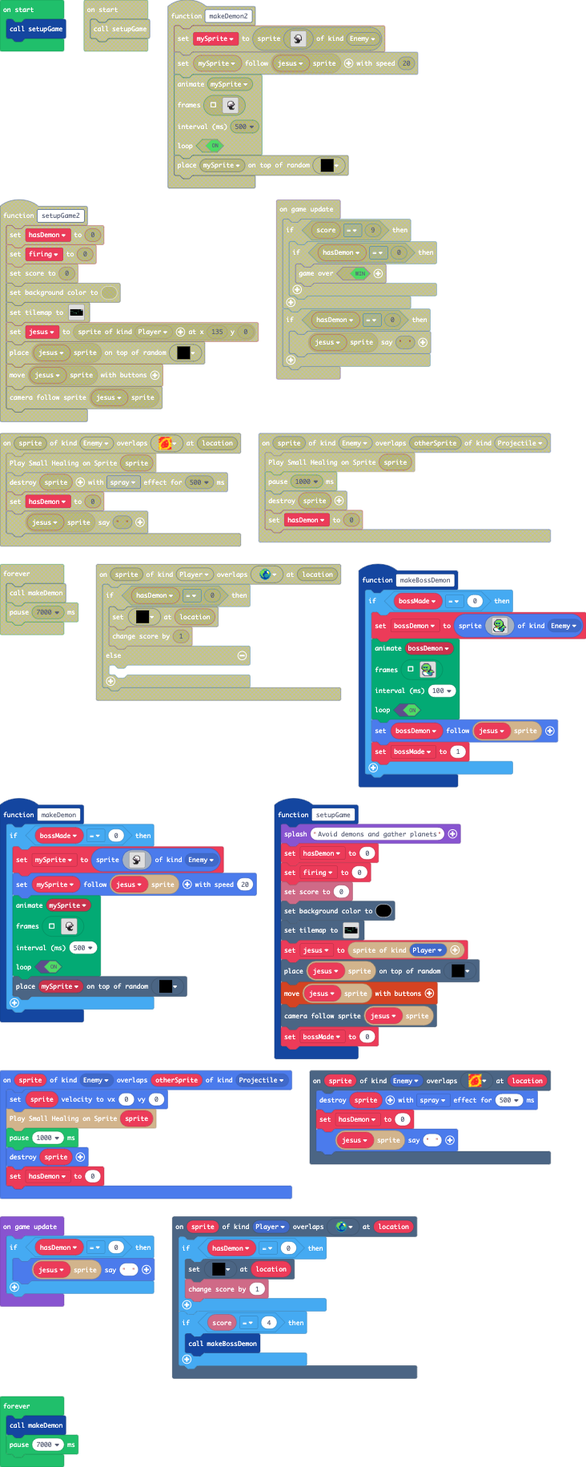
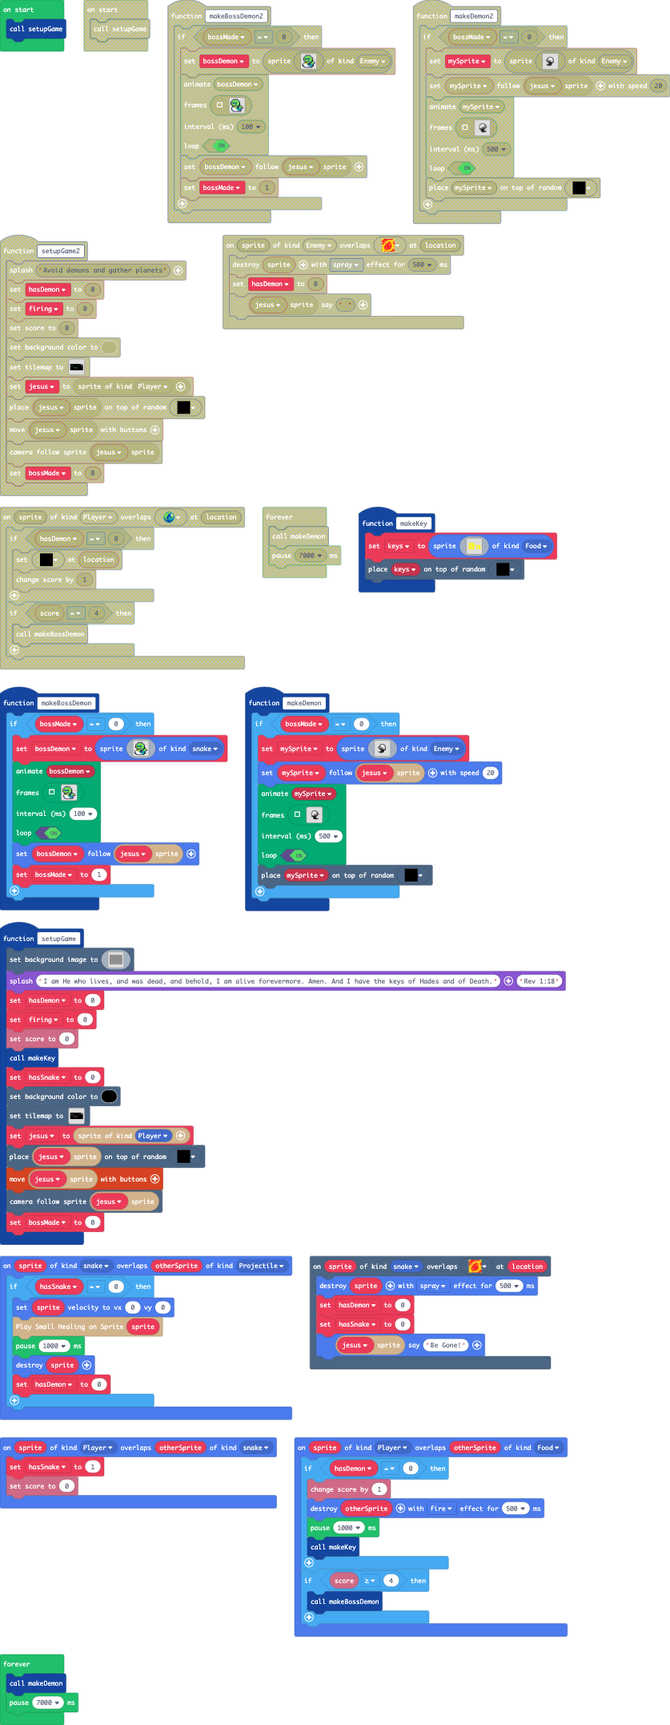
add boss demons

diff --git a/main.ts b/main.ts
@@ -1,3 +1,6 @@
+namespace SpriteKind {
+    export const snake = SpriteKind.create()
+}
 namespace myTiles {
     //% blockIdentity=images._tile
     export const tile0 = img`
@@ -18,6 +21,17 @@ namespace myTiles {
 . . . . . . . . . . . . . . . . 
 . . . . . . . . . . . . . . . . 
 `
+}
+function makeKey () {
+    keys = sprites.create(img`
+. 5 5 5 5 5 . . . . . . 
+. 5 5 5 5 5 . . . . . . 
+. 5 5 . 5 5 5 5 5 5 5 5 
+. 5 5 . 5 5 . . 5 . 5 5 
+. 5 5 5 5 5 . . 5 . 5 5 
+. 5 5 5 5 5 . . 5 . 5 5 
+`, SpriteKind.Food)
+    tiles.placeOnRandomTile(keys, sprites.builtin.forestTiles10)
 }
 function makeDemon () {
     if (bossMade == 0) {
@@ -189,7 +203,7 @@ f 1 1 1 1 1 6 6 c 6 6 6 6 f . .
 f 6 1 1 1 1 1 6 6 6 6 6 c f . . 
 . f 6 1 1 1 1 1 1 6 6 6 f . . . 
 . . c c c c c c c c c f . . . . 
-`, SpriteKind.Enemy)
+`, SpriteKind.snake)
         animation.runImageAnimation(
         bossDemon,
         [img`
@@ -323,13 +337,137 @@ controller.left.onEvent(ControllerButtonEvent.Released, function () {
     codeplant.jesus.playAnimation(codeplant.jesus.AnimationTypes.IdleLeft)
 })
 function setupGame () {
-    game.splash("Avoid demons and gather planets")
+    scene.setBackgroundImage(img`
+f f f f f f f f f f f f f f f f f f f f f f f f f f f f f f f f f f f f f f f f f f f f f f f f f f f f f f f f f f f f f f f f f f f f f f f f f f f f f f f f f f f f f f f f f f f f f f f f f f f f f f f f f f f f f f f f f f f f f f f f f f f f f f f f f f f f f f f f f f f f f f f f f f f f f f f f f f f f f f f f 
+f f f f f f f f f f f f f f f f f f f f f f f f f f f f f f f f f f f f f f f f f f f f f f f f f f f f f f f f f f f f f f f f f f f f f f f f f f f f f f f f f f f f f f f f f f f f f f f f f f f f f f f f f f f f f f f f f f f f f f f f f f f f f f f f f f f f f f f f f f f f f f f f f f f f f f f f f f f f f f f f 
+f f f f f f f f f f f f f f f f f f f f f f f f f f f f f f f f f f f f f f f f f f f f f f f f f f f f f f f f f f f f f f f f f f f f f f f f f f f f f f f f f f f f f f f f f f f f f f f f f f f f f 2 2 2 f f f f f f f f f f f f f f f f f f f f f f f f f 2 f f f f f f f f f f f f f f f f f f f f f f f f f f f f f f 
+f f f f f f f f f f f f f f f f f f f f f f f f f f f f f f f f f f f f f f f f f f f f f 2 2 2 f f f f f f f f f f f f f f f f f f f f f f f f f f f f f f f f f f f f f f f f f f f f f f f 2 2 2 2 2 2 f f f f f f f f f f f f f f f f f f f f f f f 2 2 2 2 2 2 f f f f f f f f f f f f f f f f f f f f f f f f f f f f f f 
+f f f f f f f f f f f f f f f f f f f f f f f f f f f f f f f f f f f f f f f f f f f f f f f f 2 2 2 2 f f f f f f f f f f f f f f f f f f f f f f f f f f f f f f f f f f f f f f f f 2 2 2 f f f f f f f f f f f f f f f f f 5 5 5 f f f f f f f 2 2 f f f f f f f f f f f f f f f f f f f f f f f f f f f f f f f f f f f f 
+f f f f f f f f f f f f f f f f f f f f f f f f f f f f f f f f f f f f f f f f f f f f f f f f f f f f 2 2 f f f f f f f f f f f f f f f f f f f f f f f f 5 f f f f f f f f f f f 2 2 f f f f f f f f f f f f f f f f f f f f 5 f f f f f f f 2 2 f f f f f f f f f f f f f f f f f f f f f f f f f f f f f f f f f f f f f f 
+f f f f f f f f f f f f f f f f f f f f f f f f f f f f f f f f f f f f f f f f f f f f f f f f f f f f f f 2 2 f f f f f f f f f f f f f f f f f f f f f 5 f f f f f f f f f f 2 2 f f f f f f f f f f f f f f f f f f f f f 5 f f f f f f 2 2 f f f f f f f f f f f f f f f f f f f f f f f f f f f 2 2 2 2 f f f f f f f f f 
+f f f f f f f f f f f f f f f f f f f f f f f f f f f f f f f f f f f f f f f f f f f f f f f f f f f f f f f f 2 2 f f f f f f f f f f f f f f f f f f 5 f f f f f f f f f 2 2 f f f f f f f f f f f f f f f f f f f f f f 5 f f f f f 2 2 f f f f f f f f f f f f f f f f f f f f f f f f f f 2 2 2 f f f f f f f f f f f f f 
+f f f f f f f f f f f f f f f f f f f f f f f f f f f f f f f f f f f f f f f f f f f f f f f f f f f f f f f f f f 2 f f f f f f f f f f f f f f f f 5 f f f f f f f f 2 2 f f f f f 2 2 2 2 f f f f f f f f f f f f f 5 5 f f f f 2 2 f f f f f f f f f f f f f f f f f f f f f f f f f f f f 2 f f f f f f f f f f f f f f f 
+f f f f f f f f f f f f f f f f f f f 2 2 f f f f f f f f f f f f f f f f f f f f 5 f f f f 2 2 f f f f f f f f f f f 2 f f f f f f f f f f f f f f 5 f f f f f f f 2 2 f f f f f f f f f f f 2 2 2 f f f f f f f f f f 5 f f f 2 2 f f f f f f f f f f f f f f f f f f f f f f f 5 f f f f f 2 f f f f f f f f f f f f f f f f 
+f f f f f f f f f f f f f f f f f f f f f 2 2 f f f f f f f f f f f f f f f f f f 5 f f 2 2 f f f f f f f f f f f f f f 2 2 f f f f f f f f f f f f 5 f f f f f 2 2 f f f f f f f f f f f f f f f f 2 2 f f f f f f f 5 f f f 2 f f f f f f f f f f f f f f f f f f f f f f f f 5 f f f f f 2 f f f f f f f f f f f f f f f f f 
+f f f f f f f f f f f f f f f f f f f f f f f 2 2 2 f f f f f f f f f f f f f f f 5 f f 2 f f f f f f f f f f f f f f f f f 2 f f f f f f f f f f f 5 f f f f 2 f f f f f f f f f f f f f f f f f f f f 2 2 f f f f f f f f 2 f f f f f f 2 2 f f f f f f f f f f f f f f f f f 5 f f f f f 2 f f f f f f f f f f f f f f f f f 
+f f f f f f f f f f f f f f f f f f f f f f f f 2 f 2 2 f f f f f f f f f f f f f 5 f 2 f f f f f f f f f f f f f f f f f f f 2 f f f f f f f f f 5 f f f f 2 f f f f f f f f f f f f f f f f f f f f f f f 2 f f f f f 2 2 f f f f f f f f f 2 2 2 f f f f f f f f f f f f f f 5 f f f f 2 f f f f f f f f f f f f f f f f f f 
+f f f f f f f f f f f f f f f f f f f f f f 2 2 f f f f 2 f f f f f f f f f f f 5 f f 2 f f f f f f f f f f f f f f f f f f f f 2 2 f f f f f f 5 f f f f 2 f f f f f f f f f f f f f f f f f f f f f f f f f 2 f f f 2 f f f f f f f f f f f f f f 2 2 2 f f f f f f f f f f f 5 f f f 2 f f f f f f f f f f f f f f f f f f f 
+f f f f f f f f f f f f f f f f f f f f 2 2 f f f f f f f 2 f f f f f f f f f f 5 f 2 f f f f f f f f f f f f f f f f f f f f f f f 2 f f f f f 5 f f f f 2 f f f f f f f f f f f f f f f f f f f f f f f f f f 2 2 2 f f f f f f f f f f f f f f f f f f 2 2 f f f f f f f f 5 f f f f 2 f f f f f f f f f f f f f f f f f f f 
+f f f f f f f f f f f f f f f f f f f 2 f f f f f f f f f f 2 f f f f f f f f 5 f f 2 f f f f f f f f f f f f f f f f f f f f f f f 2 f f f f 5 f f f f 2 f f f f f f f f f f f f f f f f f f f f f f f f f f f f f f f f f f f f f f f f f f f f f f f f f f 2 f f f f f f f 5 f f f f 2 f f f 2 f f f f f f f f f f f f f f f 
+f f f f f f f f f f f f f f f f f f 2 f f f f f f f f f f f f 2 f f f f f f f 5 f 2 f f f f f f f f f f f f f f f f f f f f f f f f 2 f f f 5 5 f f f 2 f f f f f f f f f f f f f f f f f f f f f f f f f f f f f f f f f f f f f f f f f f f f f f f f f f f 2 f f f f f f f 5 f f f 2 f f f f 2 f f f f f f f f f f f f f f f 
+f f f f f f f f f f f f f 5 f f f 2 f f f f f f f f f f f f f f 2 f f f f f 5 f f 2 f f f f f f f f f f f f f f f f f f f f f f f f 2 f f f 5 5 f f f 2 f f f f f f f f f f f f f f f f f f f f f f f f f f f f f f f f f f f f f f f f f f f f f f f f f f f f 2 f f f f f 5 f f f f 2 f f f f 2 f f f f f f f f f f f f f f f 
+f f f f f f f f f f f f f 5 f f f 2 f f f f f f f f f f f f f f f 2 f f f f 5 f f 2 f f f f f f f f f f f f f f f f f f f f f f f f f 2 f f f f f f 2 f f f f f f f f f f f f f f f f f f f f f f f f f f f f f f f f f f f f f f f f f f f f f f f f f f f f f 2 f f f f f f f f f 2 f f f f f 2 f f f f f f f f f f f f f f f 
+f f f f f f f f f f f f 5 f f f 2 f f f f f f f f f f f f f f f f f 2 f f f f f 2 f f f f f f f f f f f f f f f f f f f f f f f f f f 2 f f f f f 2 f f f f f f f f f f f f f f f f f f f f f f f f f f f f f f f f f f f f f f f f f f f f f f f f f f f f f f f 2 f f f f f f f f 2 f f f f f 2 f f f f f f f f f f f f f f f 
+f f f f f f f f f f f f 5 f f 2 f f f f f f f f f f f f f f f f f f f 2 f f f f 2 f f f f f f f f f f f f f f f f f f f f f f f f f f f 2 f f f 2 f f f f f f f f f f f f f f f f f f f f f f f f f f f f f f f f f f f f f f f f f f f f f f f f f f f f f f f f f 2 f f f f f f 2 f f f f f f 2 f f f f f f f f f f f f f f f 
+f f f f f f f f f f f 5 f f f 2 f f f f f f f f f f f f f f f f f f f 2 f f f f 2 f f f f f f f f f f f f f f f f f f f f f f f f f f f f 2 f f 2 f f f f f f f f f f f f f f f f f f f f f f f f f f f f f f f f f f f f f f f f f f f f f f f f f f f f f f f f f 2 f f f f f f 2 f f f f f f 2 f f f f f f f f f f f f f f f 
+f f f f f f f f f f f 5 f f 2 f f f f f f f f f f f f f f f f f f f f f 2 f f 2 f f f f f f f f f f f f f f f f f f f f f f f f f f f f f f 2 f 2 f f f f f f f f f f f f f f f f f f f f f f f f f f f f f f f f f f f f f f f f f f f f f f f f f f f f f f f f f f 2 f f f f 2 f f f f f f f 2 f f f f f f f f f 5 f f f f f 
+f 2 2 f f f f f f f 5 f f f 2 f f f f f f f f f f f f f f f f f f f f f 2 f f 2 f f f f f f f f f f f f f f f f f f f f f f f f f f f f f f f 2 2 f f f f f f f f f f f f f f f f f f f f f f f f f f f f f f f f f f f f f f f f f f f f f f f f f f f f f f f f f f f 2 f f f 2 f f f f f f f 2 f f f f f f f f 5 f f f f f f 
+f f 2 f f f f f f f 5 f f f 2 f f f f f f f f f f f f f f f f f f f f f f 2 2 f f f f f f f f f f f f f f f f f f f f f f f f f f f f f f f f 2 2 f f f f f f f f f f f f f f f f f f f f f f f f f f f f f f f f f f f f f f f f f f f f f f f f f f f f f f f f f f f f 2 f 2 f f f f f f f f 2 f f f f f f f 5 f f f f f f f 
+f f f 2 f f f f f f 5 f f f 2 f f f f f f f f f f f f f f f f f f f f f f 2 2 f f f f f f f f f f f f f f f f f f f f f f f f f f f f f f f f f 2 f f f f f f f f f f f f f f f f f f f f f f f f f f f f f f f f f f f f f f f f f f f f f f f f f f f f f f f f f f f f f 2 f f f f f f f f 2 f f f f f f f 5 f f f f f f f f 
+f f f f 2 f f f f f 5 f f f 2 f f f f f f f f f f f f f f f f f f f f f f f 2 2 f f f f f f f f f f f f f f f f f f f f f f f f f f f f f f f f f f f f f f f f f f f f f f f f f f f f f f f f f f f f f f f f f f f f f f f f f f f f f f f f f f f f f f f f f f f f f f f f f f f f f f f 2 f f f f f f f 5 f f f f f f f f 
+f f f f f 2 f f f 5 5 f f 2 f f f f f f f f f f f f f f f f f f f f f f f f f 2 f f f f f f f f f f f f f f f f f f f f f f f f f f f f f f f f f f f f f f f f f f f f f f f f f f f f f f f f f f f f f f f f f f f f f f f f f f f f f f f f f f f f f f f f f f f f f f f f f f f f f f 2 f f f f f f 5 5 f f f f f f f f f 
+f f f f f f 2 f f f f f f 2 f f f f f f f f f f f f f f f f f f f f f f f f f f f f f f f f f f f f f f f f f f f f f f f f f f f f f f f f f f f f f f f f f f f f f f f f f f f f f f f f f f f f f f f f f f f f f f f f f f f f f f f f f f f f f f f f f f f f f f f f f f f f f f f f 2 f f f f f f 5 f f f f f f f f f f 
+f f f f f f 2 f f f f f f 2 f f f f f f f f f f f f f f f f f f f f f f f f f f f f f f f f f f f f f f f f f f f f f f f f f f f f f f f f f f f f f f f f f f f f f f f f f f f f f f f f f f f f f f f f f f f f f f f f f f f f f f f f f f f f f f f f f f f f f f f f f f f f f f f f 2 f f f f f f f f f f f f f f f f f 
+f f f f f f f 2 f f f f f 2 f f f f f f f f f f f f f f f f f f f f f f f f f f f f f f f f f f f f f f f f f f f f f f f f f f f f f f f f f f f f f f f f f f f f f f f f f f f f f f f f f f f f f f f f f f f f f f f f f f f f f f f f f f f f f f f f f f f f f f f f f f f f f f f f 2 f f f f f f f f f f f f f f f f f 
+f f f f f f f 2 f f f f f 2 f f f f f f f f f f f f f f f f f f f f f f f f f f f f f f f f f f f f f f f f f f f f f f f f f f f f f f f f f f f f f f f f f f f f f f f f f f f f f f f f f f f f f f f f f f f f f f f f f f f f f f f f f f f f f f f f f f f f f f f f f f f f f f f 2 f f f f f f f f f f f 2 2 2 2 2 2 f 
+f f f f f f f f 2 f f f f 2 f f f f f f f f f f f f f f f f f f f f f f f f f f f f f f f f f f f f f f f f f f f f f f f f f f f f f f f f f f f f f f f f f f f f f f f f f f f f f f f f f f f f f f f f f f f f f f f f f f f f f f f f f f f f f f f f f f f f f f f f f f f f f f f 2 f f f f f f f f 2 2 2 f f f f f f f 
+f f f f f f f f 2 f f f f 2 f f f f f f f f f f f f f f f f f f f f f f f f f f f f f f f f f f f f f f f f f f f f f f f f f f f f f f f f f f f f f f f f f f f f f f f f f f f f f f f f f f f f f f f f f f f f f f f f f f f f f f f f f f f f f f f f f f f f f f f f f f f f f f f 2 f f f f f f 2 2 f f f f f f f f f f 
+f f f f f f f f f 2 f f f 2 f f f f f f f f f f f f f f f f f f f f f f f f f f f f f f f f f f f f f f f f f f f f f f f f f f f f f f f f f f f f f f f f f f f f f f f f f f f f f f f f f f f f f f f f f f f f f f f f f f f f f f f f f f f f f f f f f f f f f f f f f f f f f f 2 f f f f f 2 2 f f f f f f f f f f f f 
+f f f f f f f f f f 2 f f 2 f f f f f f f f f f f f f f f f f f f f f f f f f f f f f f f f f f f f f f f f f f f f f f f f f f f f f f f f f f f f f f f f f f f f f f f f f f f f f f f f f f f f f f f f f f f f f f f f f f f f f f f f f f f f f f f f f f f f f f f f f f f f f f 2 f f f 2 2 f f f f f f f f f f f f f f 
+f f f f f f f f f f 2 f f 2 f f f f f f f f f f f f f f f f f f f f f f f f f f f f f f f f f f f f f f f f f f f f f f f f f f f f f f f f f f f f f f f f f f f f f f f f f f f f f f f f f f f f f f f f f f f f f f f f f f f f f f f f f f f f f f f f f f f f f f f f f f f f f 2 f f f 2 f f f f f f f f f f f f f f f f 
+f f f f f f f f f f f 2 f 2 f f f f f f f f f f f f f f f f f f f f f f f f f f f f f f f f f f f f f f f f f f f f f f f f f f f f f f f f f f f f f f f f f f f f f f f f f f f f f f f f f f f f f f f f f f f f f f f f f f f f f f f f f f f f f f f f f f f f f f f f f f f f f 2 f 2 2 f f f f f f f f f f f f f f f f f 
+f f f f f f f f f f f f 2 2 f f f f f f f f f f f f f f f f f f f f f f f f f f f f f f f f f f f f f f f f f f f f f f f f f f f f f f f f f f f f f f f f f f f f f f f f f f f f f f f f f f f f f f f f f f f f f f f f f f f f f f f f f f f f f f f f f f f f f f f f f f f f f 2 2 f f f f f f f f f f f f f f f f f f f 
+f f f f f f f f f f f f 2 2 f f f f f f f f f f f f f f f f f f f f f f f f f f f f f f f f f f f f f f f f f f f f f f f f f f f f f f f f f f f f f f f f f f f f f f f f f f f f f f f f f f f f f f f f f f f f f f f f f f f f f f f f f f f f f f f f f f f f f f f f f f f f 2 2 f f f f f f f f f f f f f f f f f f f f 
+f f f f f f f f f f f f f 2 f f f f f f f f f f f f f f f f f f f f f f f f f f f f f f f f f f f f f f f f f f f f f f f f f f f f f f f f f f f f f f f f f f f f f f f f f f f f f f f f f f f f f f f f f f f f f f f f f f f f f f f f f f f f f f f f f f f f f f f f f f f f 2 f f f f f f f f f f f f f f f f f f f f f 
+f f f f f f f f f f f f f 2 2 f f f f f f f f f f f f f f f f f f f f f f f f f f f f f f f f f f f f f f f f f f f f f f f f f f f f f f f f f f f f f f f f f f f f f f f f f f f f f f f f f f f f f f f f f f f f f f f f f f f f f f f f f f f f f f f f f f f f f f f f f f f 2 f f f f f f f f f f f f f f f f f f f f f 
+f f f f f f f f f f f f f f f f f f f f f f f f f f f f f f f f f f f f f f f f f f f f f f f f f f f f f f f f f f f f f f f f f f f f f f f f f f f f f f f f f f f f f f f f f f f f f f f f f f f f f f f f f f f f f f f f f f f f f f f f f f f f f f f f f f f f f f f f f f f f f f f f f f f f f f f f f f f f f f f f 
+f f f f f f f f f f f f f f f f f f f f f f f f f f f f f f f f f f f f f f f f f f f f f f f f f f f f f f f f f f f f f f f f f f f f f f f f f f f f f f f f f f f f f f f f f f f f f f f f f f f f f f f f f f f f f f f f f f f f f f f f f f f f f f f f f f f f f f f f f f f f f f f f f f f f f f f f f f f f f f f f 
+f f f f f f f f f f f f f f f f f f f f f f f f f f f f f f f f f f f f f f f f f f f f f f f f f f f f f f f f f f f f f f f f f f f f f f f f f f f f f f f f f f f f f f f f f f f f f f f f f f f f f f f f f f f f f f f f f f f f f f f f f f f f f f f f f f f f f f f f f f f f f f f f f f f f f f f f f f f f f f f f 
+f f f f f f f f f f f f f f f f f f f f f f f f f f f f f f f f f f f f f f f f f f f f f f f f f f f f f f f f f f f f f f f f f f f f f f f f f f f f f f f f f f f f f f f f f f f f f f f f f f f f f f f f f f f f f f f f f f f f f f f f f f f f f f f f f f f f f f f f f f f f f f f f f f f f f f f f f f f f f f f f 
+f f f f f f f f f f f f f f f f f f f f f f f f f f f f f f f f f f f f f f f f f f f f f f f f f f f f f f f f f f f f f f f f f f f f f f f f f f f f f f f f f f f f f f f f f f f f f f f f f f f f f f f f f f f f f f f f f f f f f f f f f f f f f f f f f f f f f f f f f f f f f f f f f f f f f f f f f f f f f f f f 
+f f f f f f f f f f f f f f f f f f f f f f f f f f f f f f f f f f f f f f f f f f f f f f f f f f f f f f f f f f f f f f f f f f f f f f f f f f f f f f f f f f f f f f f f f f f f f f f f f f f f f f f f f f f f f f f f f f f f f f f f f f f f f f f f f f f f f f f f f f f f f f f f f f f f f f f f f f f f f f f f 
+f f f f f f f f f f f f f f f f f f f f f f f f f f f f f f f f f f f f f f f f f f f f f f f f f f f f f f f f f f f f f f f f f f f f f f f f f f f f f f f f f f f f f f f f f f f f f f f f f f f f f f f f f f f f f f f f f f f f f f f f f f f f f f f f f f f f f f f f f f f f f f f f f f f f f f f f f f f f f f f f 
+f f f f f f f f f f f f f f f f f f f f f f f f f f f f f f f f f f f f f f f f f f f f f f f f f f f f f f f f f f f f f f f f f f f f f f f f f f f f f f f f f f f f f f f f f f f f f f f f f f f f f f f f f f f f f f f f f f f f f f f f f f f f f f f f f f f f f f f f f f f f f f f f f f f f f f f f f f f f f f f f 
+f f f f f f f f f f f f f f f f f f f f f f f f f f f f f f f f f f f f f f f f f f f f f f f f f f f f f f f f f f f f f f f f f f f f f f f f f f f f f f f f f f f f f f f f f f f f f f f f f f f f f f f f f f f f f f f f f f f f f f f f f f f f f f f f f f f f f f f f f f f f f f f f f f f f f f f f f f f f f f f f 
+f f f f f f f f f f f f f f f f f f f f f f f f f f f f f f f f f f f f f f f f f f f f f f f f f f f f f f f f f f f f f f f f f f f f f f f f f f f f f f f f f f f f f f f f f f f f f f f f f f f f f f f f f f f f f f f f f f f f f f f f f f f f f f f f f f f f f f f f f f f f f f f f f f f f f f f f f f f f f f f f 
+f f f f f f f f f f f f f f f f f f f f f f f f f f f f f f f f f f f f f f f f f f f f f f f f f f f f f f f f f f f f f f f f f f f f f f f f f f f f f f f f f f f f f f f f f f f f f f f f f f f f f f f f f f f f f f f f f f f f f f f f f f f f f f f f f f f f f f f f f f f f f f f f f f f f f f f f f f f f f f f f 
+f f f f f f f f f f f f f f f f f f f f f f f f f f f f f f f f f f f f f f f f f f f f f f f f f f f f f f f f f f f f f f f f f f f f f f f f f f f f f f f f f f f f f f f f f f f f f f f f f f f f f f f f f f f f f f f f f f f f f f f f f f f f f f f f f f f f f f f f f f f f f f f f f f f f f f f f f f f f f f f f 
+f f f f f f f f f f f f f f f f f f f f f f f f f f f f f f f f f f f f f f f f f f f f f f f f f f f f f f f f f f f f f f f f f f f f f f f f f f f f f f f f f f f f f f f f f f f f f f f f f f f f f f f f f f f f f f f f f f f f f f f f f f f f f f f f f f f f f f f f f f f f f f f f f f f f f f f f f f f f f f f f 
+f f f f f f f f f f f f f f f f f f f f f f f f f f f f f f f f f f f f f f f f f f f f f f f f f f f f f f f f f f f f f f f f f f f f f f f f f f f f f f f f f f f f f f f f f f f f f f f f f f f f f f f f f f f f f f f f f f f f f f f f f f f f f f f f f f f f f f f f f f f f f f f f f f f f f f f f f f f f f f f f 
+f f f f f f f f f f f f f f f f f f f f f f f f f f f f f f f f f f f f f f f f f f f f f f f f f f f f f f f f f f f f f f f f f f f f f f f f f f f f f f f f f f f f f f f f f f f f f f f f f f f f f f f f f f f f f f f f f f f f f f f f f f f f f f f f f f f f f f f f f f f f f f f f f f f f f f f f f f f f f f f f 
+f f f f f f f f f f f f f f f f f f f f f f f f f f f f f f f f f f f f f f f f f f f f f f f f f f f f f f f f f f f f f f f f f f f f f f f f f f f f f f f f f f f f f f f f f f f f f f f f f f f f f f f f f f f f f f f f f f f f f f f f f f f f f f f f f f f f f f f f f f f f f f f f f f f f f f f f f f f f f f f f 
+f f f f f f f f f f f f f f f f f f f f f f f f f f f f f f f f f f f f f f f f f f f f f f f f f f f f f f f f f f f f f f f f f f f f f f f f f f f f f f f f f f f f f f f f f f f f f f f f f f f f f f f f f f f f f f f f f f f f f f f f f f f f f f f f f f f f f f f f f f f f f f f f f f f f f f f f f f f f f f f f 
+f f f f f f f f f f f f f f f f f f f f f f f f f f f f f f f f f f f f f f f f f f f f f f f f f f f f f f f f f f f f f f f f f f f f f f f f f f f f f f f f f f f f f f f f f f f f f f f f f f f f f f f f f f f f f f f f f f f f f f f f f f f f f f f f f f f f f f f f f f f f f f f f f f f f f f f f f f f f f f f f 
+f f f f f f f f f f f f f f f f f f f f f f f f f f f f f f f f f f f f f f f f f f f f f f f f f f f f f f f f f f f f f f f f f f f f f f f f f f f f f f f f f f f f f f f f f f f f f f f f f f f f f f f f f f f f f f f f f f f f f f f f f f f f f f f f f f f f f f f f f f f f f f f f f f f f f f f f f f f f f f f f 
+f f f f f f f f f f f f f f f f f f f f f f f f f f f f f f f f f f f f f f f f f f f f f f f f f f f f f f f f f f f f f f f f f f f f f f f f f f f f f f f f f f f f f f f f f f f f f f f f f f f f f f f f f f f f f f f f f f f f f f f f f f f f f f f f f f f f f f f f f f f f f f f f f f f f f f f f f f f f f f f f 
+f f f f f f f f f f f f f f f f f f f f f f f f f f f f f f f f f f f f f f f f f f f f f f f f f f f f f f f f f f f f f f f f f f f f f f f f f f f f f f f f f f f f f f f f f f f f f f f f f f f f f f f f f f f f f f f f f f f f f f f f f f f f f f f f f f f f f f f f f f f f f f f f f f f f f f f f f f f f f f f f 
+f f f f f f f f f f f f f f f f f f f f f f f f f f f f f f f f f f f f f f f f f f f f f f f f f f f f f f f f f f f f f f f f f f f f f f f f f f f f f f f f f f f f f f f f f f f f f f f f f f f f f f f f f f f f f f f f f f f f f f f f f f f f f f f f f f f f f f f f f f f f f f f f f f f f f f f f f f f f f f f f 
+f f f f f f f f f f f f f f f f f f f f f f f f f f f f f f f f f f f f f f f f f f f f f f f f f f f f f f f f f f f f f f f f f f f f f f f f f f f f f f f f f f f f f f f f f f f f f f f f f f f f f f f f f f f f f f f f f f f f f f f f f f f f f f f f f f f f f f f f f f f f f f f f f f f f f f f f f f f f f f f f 
+f f f f f f f f f f f f f f f f f f f f f f f f f f f f f f f f f f f f f f f f f f f f f f f f f f f f f f f f f f f f f f f f f f f f f f f f f f f f f f f f f f f f f f f f f f f f f f f f f f f f f f f f f f f f f f f f f f f f f f f f f f f f f f f f f f f f f f f f f f f f f f f f f f f f f f f f f f f f f f f f 
+f f f f f f f f f f f f f f f f f f f f f f f f f f f f f f f f f f f f f f f f f f f f f f f f f f f f f f f f f f f f f f f f f f f f f f f f f f f f f f f f f f f f f f f f f f f f f f f f f f f f f f f f f f f f f f f f f f f f f f f f f f f f f f f f f f f f f f f f f f f f f f f f f f f f f f f f f f f f f f f f 
+f f f f f f f f f f f f f f f f f f f f f f f f f f f f f f f f f f f f f f f f f f f f f f f f f f f f f f f f f f f f f f f f f f f f f f f f f f f f f f f f f f f f f f f f f f f f f f f f f f f f f f f f f f f f f f f f f f f f f f f f f f f f f f f f f f f f f f f f f f f f f f f f f f f f f f f f f f f f f f f f 
+f f f f f f f f f f f f f f f f f f f f f f f f f f f f f f f f f f f f f f f f f f f f f f f f f f f f f f f f f f f f f f f f f f f f f f f f f f f f f f f f f f f f f f f f f f f f f f f f f f f f f f f f f f f f f f f f f f f f f f f f f f f f f f f f f f f f f f f f f f f f f f f f f f f f f f f f f f f f f f f f 
+f f f f f f f f f f f f f f f f f f f f f f f f f f f f f f f f f f f f f f f f f f f f f f f f f f f f f f f f f f f f f f f f f f f f f f f f f f f f f f f f f f f f f f f f f f f f f f f f f f f f f f f f f f f f f f f f f f f f f f f f f f f f f f f f f f f f f f f f f f f f f f f f f f f f f f f f f f f f f f f f 
+f f f f f f f f f f f f f f f f f f f f f f f f f f f f f f f f f f f f f f f f f f f f f f f f f f f f f f f f f f f f f f f f f f f f f f f f f f f f f f f f f f f f f f f f f f f f f f f f f f f f f f f f f f f f f f f f f f f f f f f f f f f f f f f f f f f f f f f f f f f f f f f f f f f f f f f f f f f f f f f f 
+f f f f f f f f f f f f f f f f f f f f f f f f f f f f f f f f f f f f f f f f f f f f f f f f f f f f f f f f f f f f f f f f f f f f f f f f f f f f f f f f f f f f f f f f f f f f f f f f f f f f f f f f f f f f f f f f f f f f f f f f f f f f f f f f f f f f f f f f f f f f f f f f f f f f f f f f f f f f f f f f 
+f f f f f f f f f f f f f f f f f f f f f f f f f f f f f f f f f f f f f f f f f f f f f f f f f f f f f f f f f f f f f f f f f f f f f f f f f f f f f f f f f f f f f f f f f f f f f f f f f f f f f f f f f f f f f f f f f f f f f f f f f f f f f f f f f f f f f f f f f f f f f f f f f f f f f f f f f f f f f f f f 
+f f f f f f f f f f f f f f f f f f f f f f f f f f f f f f f f f f f f f f f f f f f f f f f f f f f f f f f f f f f f f f f f f f f f f f f f f f f f f f f f f f f f f f f f f f f f f f f f f f f f f f f f f f f f f f f f f f f f f f f f f f f f f f f f f f f f f f f f f f f f f f f f f f f f f f f f f f f f f f f f 
+f f f f f f f f f f f f f f f f f f f f f f f f f f f f f f f f f f f f f f f f f f f f f f f f f f f f f f f f f f f f f f f f f f f f f f f f f f f f f f f f f f f f f f f f f f f f f f f f f f f f f f f f f f f f f f f f f f f f f f f f f f f f f f f f f f f f f f f f f f f f f f f f f f f f f f f f f f f f f f f f 
+f f f f f f f f f f f f f f f f f f f f f f f f f f f f f f f f f f f f f f f f f f f f f f f f f f f f f f f f f f f f f f f f f f f f f f f f f f f f f f f f f f f f f f f f f f f f f f f f f f f f f f f f f f f f f f f f f f f f f f f f f f f f f f f f f f f f f f f f f f f f f f f f f f f f f f f f f f f f f f f f 
+f f f f f f f f f f f f f f f f f f f f f f f f f f f f f f f f f f f f f f f f f f f f f f f f f f f f f f f f f f f f f f f f f f f f f f f f f f f f f f f f f f f f f f f f f f f f f f f f f f f f f f f f f f f f f f f f f f f f f f f f f f f f f f f f f f f f f f f f f f f f f f f f f f f f f f f f f f f f f f f f 
+f f f f f f f f f f f f f f f f f f f f f f f f f f f f f f f f f f f f f f f f f f f f f f f f f f f f f f f f f f f f f f f f f f f f f f f f f f f f f f f f f f f f f f f f f f f f f f f f f f f f f f f f f f f f f f f f f f f f f f f f f f f f f f f f f f f f f f f f f f f f f f f f f f f f f f f f f f f f f f f f 
+f f f f f f f f f f f f f f f f f f f f f f f f f f f f f f f f f f f f f f f f f f f f f f f f f f f f f f f f f f f f f f f f f f f f f f f f f f f f f f f f f f f f f f f f f f f f f f f f f f f f f f f f f f f f f f f f f f f f f f f f f f f f f f f f f f f f f f f f f f f f f f f f f f f f f f f f f f f f f f f f 
+f f f f f f f f f f f f f f f f f f f f f f f f f f f f f f f f f f f f f f f f f f f f f f f f f f f f f f f f f f f f f f f f f f f f f f f f f f f f f f f f f f f f f f f f f f f f f f f f f f f f f f f f f f f f f f f f f f f f f f f f f f f f f f f f f f f f f f f f f f f f f f f f f f f f f f f f f f f f f f f f 
+f f f f f f f f f f f f f f f f f f f f f f f f f f f f f f f f f f f f f f f f f f f f f f f f f f f f f f f f f f f f f f f f f f f f f f f f f f f f f f f f f f f f f f f f f f f f f f f f f f f f f f f f f f f f f f f f f f f f f f f f f f f f f f f f f f f f f f f f f f f f f f f f f f f f f f f f f f f f f f f f 
+f f f f f f f f f f f f f f f f f f f f f f f f f f f f f f f f f f f f f f f f f f f f f f f f f f f f f f f f f f f f f f f f f f f f f f f f f f f f f f f f f f f f f f f f f f f f f f f f f f f f f f f f f f f f f f f f f f f f f f f f f f f f f f f f f f f f f f f f f f f f f f f f f f f f f f f f f f f f f f f f 
+f f f f f f f f f f f f f f f f f f f f f f f f f f f f f f f f f f f f f f f f f f f f f f f f f f f f f f f f f f f f f f f f f f f f f f f f f f f f f f f f f f f f f f f f f f f f f f f f f f f f f f f f f f f f f f f f f f f f f f f f f f f f f f f f f f f f f f f f f f f f f f f f f f f f f f f f f f f f f f f f 
+f f f f f f f f f f f f f f f f f f f f f f f f f f f f f f f f f f f f f f f f f f f f f f f f f f f f f f f f f f f f f f f f f f f f f f f f f f f f f f f f f f f f f f f f f f f f f f f f f f f f f f f f f f f f f f f f f f f f f f f f f f f f f f f f f f f f f f f f f f f f f f f f f f f f f f f f f f f f f f f f 
+f f f f f f f f f f f f f f f f f f f f f f f f f f f f f f f f f f f f f f f f f f f f f f f f f f f f f f f f f f f f f f f f f f f f f f f f f f f f f f f f f f f f f f f f f f f f f f f f f f f f f f f f f f f f f f f f f f f f f f f f f f f f f f f f f f f f f f f f f f f f f f f f f f f f f f f f f f f f f f f f 
+f f f f f f f f f f f f f f f f f f f f f f f f f f f f f f f f f f f f f f f f f f f f f f f f f f f f f f f f f f f f f f f f f f f f f f f f f f f f f f 2 f f f f f f f f f f f f f f f f f f f f f f f f f f f f f f f f f f f f f f f f f f f f f f f f f f f f f f f f f f f f f f f f f f f f f f f f f f f f f f f f f 
+f f f f f f f f f f f f f f f f f f f f f f f f f f f f f f f f f f f f f f f f f f f f f f f f f f f f f f f f f f f f f f f f f f f f f f f f f f f f f 2 2 f f f f f f f f f f f f f f f f f f f f f f f f f f f f f f f f f f f f f f f f f f f f f f f f f f f f f f f f f f f f f f f f f f f f f f f f f f f f f f f f f 
+f f f f f f f f f f f f f f f f f f f f f f f f f f f f f f f f f f f f f f f f f f f f f f f f f f f f f f f f f f f f f f f f f f f f f f f f f f f f 2 f 2 f f f f f f f f f f f f f f f f f f f f f f f f f f f f f f f f f f f f f f f f f f f f f f f f f f f f f f f f f f f f f f f f f f f f f f f f f f f f f f f f f 
+f f f f f f f f f f f f f f f f f f f f f f f f f f f f f f f f f f f f f f f f f f f f f f f f f f f f f f f f f f f f f f f f f f f f f f f f f f f 2 f f 2 f f f f f f f f f f f f f f f f f f f f f f f f f f f f f f f f f f f f f f f f f f f f f f f f f f f f f f f f f f f f f f f f f f f f f f f f f f f f f f f f f 
+f f f f f f f f f f f f f f f f f f f f f f f f f f f f f f f f f f f f f f f f f f f f f f f f f f f f f f f f f f f f f f f f f f f f f f f f f f f 2 f f f 2 f f f f f f f f f f f f f f f f f f f f f f f f f f f f f f f f f f f f f f f f f f f f f f f f f f f f f f f f f f f f f f f f f f f f f f f f f f f f f f f f 
+f f f f f f f f f f f f f f f f f f f f f f f f f f f f f f f f f f f f f f f f f f f f f f f f f f f f f f f f f f f f f f f f f f f f f f f f f f 2 f f f f 2 f f f f f f f f f f f f f f f f f f f f f f f f f f f f f f f f f f f f f f f f f f f f f f f f f f f f f f f f f f f f f f f f f f f f f f f f f f f f f f f f 
+f f f f f f f f f f f f f f f f f f f f f f f f f f f f f f f f f f f f f f f f f f f f f f f f f f f f f f f f f f f f f f f f f f f f f f f f f 2 f f f f f 2 f f f f f f f f f f f f f f f f f f f f f f f f f f f f f f f f f f f f f f f f f f f f f f f f f f f f f f f f f f f f f f f f f f f f f f f f f f 2 f f f f f 
+f f f f f f f f f f f f f f f f f f f f f f f f f f f f f f f f f f f f f f f f f f f f f f f f f f f f f f f f f f f f f f f f f f f f f f f f 2 f f f f f f 2 f f f f f f f f f f f f f f f f f f f f f f f f f f f f f f f f f f f f f f f f f f f f f f f f f f f f f f f f f f f f f f f f f f f f f f f f f f 2 f f f f f 
+f f f f f f f f f f f f f f f f f f f f f f f f f f f f f f f f f f f f f f f f f f f f f f f f f f f f f f f f f f f f f f f f f f f f f f f 2 f f f f f f f 2 f f f f f f f f f f f f f f f f f f f f f f f f f f f f f f f f f f f f f f f f f f f f f f f f f f f f f f f f f f f f f f f f f f f f f f f f f f 2 2 f f f f 
+f f f f f f f f f f f f f f f f f f f f f f f f f f f f f f f f f f f f f f f f f f f f f f f f f f f f f f f f f f f f f f f f f f f f f f 2 f f f f f 5 f f 2 f f f f f f f f f f f f f f f f f f f f f f f f f f f f f f f f f f f f f f f f f f f f f f f f f f f f f f f f f f f f f f f f f f f f f f f f f f 2 2 f f f f 
+f f f f f f f f f f f f f f f f f f f f f f f f f f f f f f f f f f f f f f f f 2 f f f f f f f f f f f f f f f f f f f f f f f f f f f f f 2 f f f f f 5 f f 2 f f f f f f f f f f f f f f f f f f f f f f f f f f f f f f f f f f f f f f f f f f f f f f f f f f f f f f f f f f f f f f f f f f f f f f f f f f 2 2 2 f f f 
+f f f f f f f f f f f f f f f f f f f f f f f f f f f f f f f f f f f f f f f f 2 f f f f f f f f f f f f f f f f f f f f f f f f f f f f 2 f f f f f f 5 f f f 2 f f f f f f f f f f f f f f f f f f f f f f f f f f f f f f f f f f f f f f f f f f f f f f f f f f f f f f f 2 f f f f f f f f f f f f f f f f f 2 f f 2 f f 
+f f f f 2 f f f f f f f f f f f f f f f f f f f f f f f f f f f f f f f f f f 2 f f f f f f f f f f f f f f f f f f f f f f f f f f f f 2 f f f f f f f 5 f f f 2 f f f f f f f f f f f f f f f f f f f f f f f f 2 f f f f f f f f f f f f f f f f f f f f f f f f f f f f f f 2 f f f f f f f f f f f f f f f f 2 f f f f 2 f 
+f f f f 2 f f f f f f f f f f f f f f f f f f f f f f f f f f f f f f f f f f 2 f 2 f f f f f f f f f f f f f f f f f f f f f f f f f 2 f f f f f f f f 5 f f f f 2 f f f f f f f f f f f f f f f f f f f f f f 2 f 2 f f f f f f f f f f f f f f f f f f f f f f f f f f f f f 2 f f f f f f f f f f f f f f f f 2 f f f f 2 f 
+f f f f 2 2 f f f f f f f f f f f f f f f f f f f f f f f f f f f f f f f f 2 f f 2 f f f f f f f f f f f f f f f f f f f f f f f f 2 f f f f f f f f f 5 f f f f f 2 f f f f f f f f f f f f f f f f f f f f 2 f f f 2 f f f f f f f f f f f f f f f f f f f f f f f f f f f 2 2 f f f f f f f f f f f f f f f 2 f f f f f f f 
+f f f f 2 f 2 f f f f f f f f f f f f f f f f f f f f f f f f f f f f f f f 2 f f 2 f f f f f f f f f f f f f f f f f f f f f f f 2 f f f f f f f f f f f 5 f f f f 2 f f f f f f f f f f f f f f f f f f 2 2 f f f f 2 2 f f f f f f f f f f f f f f f f f f f f f f f f f 2 f 2 f f f f f f f f f f f f f 2 2 f f f f f f f f 
+f f f f 2 f 2 f f f f f f f f f f f f f f f f f f f f f f f f f f f f f f 2 f f f f 2 f f f f f f f f f f f f f f f f f f f f 2 2 f f f f f f 4 f f f f f 5 f f f f f 2 f f f f f f f f f f f f f f f f 2 f f f f f f f f 2 2 f f f f f f f f f f f f f f f f f f f f f f 2 f f f 2 f f f f f f f f f f 2 2 f f f f f f 5 5 f f 
+f f f 2 f f f 2 f f f f f f f f f f f f f f f f f f f f f f f f f f f f 2 f f f f f f 2 f f f f f f f f f f f f f f f f f f 2 f f f f f f f f 4 f f f f f 5 f f f f f f 2 f f f f f f f f f f f f f f f 2 f f f f 5 5 f f f f 2 f f f f f f f f f f f f f f f f f f f f 2 f f f f f 2 f f f f f f f 2 2 2 f f f f f f f f 5 f f 
+f f f 2 f f f f 2 f f f f f f f f f f f f f f f f f f f f f f f f f f 2 2 f f f f f f f 2 f f f f f f f f f f f f f f f f 2 f f f f f f f f f 4 f f f f f f 5 f f f f f f 2 2 f f f f f f f f f f f f 2 f f f f f f 5 5 f f f f 2 2 f f f f f f f f f f f f f f f f f 2 f f f f f f f 2 2 f f f f 2 2 f f f f f f f f f f f f f 
+f f 2 f f 5 5 f f 2 f f f f f f f f f f f f f f f f f f f f f f f f 2 f f f f f f 5 f f f 2 f f f f f f f f f f f f f f 2 f f f f f f f f f f f 4 f f f f f 5 f f f f f f f f 2 f f f f f f f f f 2 2 f f f f f f f f 5 5 5 5 f f f 2 2 2 f f f f f f f f f f f f f 2 f f f f f f f f f f 2 f f f 2 f f f f f f f f f f f 4 f f 
+f f 2 f f f 5 5 f f 2 f f f f f f f f f f f f f f f f f f f f f 2 2 f f f f f f f f 5 f f f 2 2 f f f f f f f f f f f 2 f f f f f f f f f f f f 4 f f f f f f 5 f f f f f f f f 2 f f f f f f f 2 f f f f f f f 4 4 4 f f f 5 5 f f f f f 2 2 2 f f f f f f f f f f 2 f f f f f f f f f f f 2 f f f f f f f f f f f f f f f f f 
+f 2 f f f f f 5 f f f 2 f f f f f f f f f f f f f f f f f f f 2 f f f f f f f f 4 f f 5 f f f f 2 f f f f f f f f 2 2 f f f f f f f f f f f f f f 4 f f f f f f 5 f f f f f f f f 2 2 f f f 2 2 f f f f f f f f f f 4 4 f f f f 5 5 5 5 f f f f f f f f f f f f f 2 f f f f f f 5 f f f f f 2 f f f f f f f f f f f f f f f f f 
+2 f f f 4 4 f f 5 f f f 2 2 f f f f f f f f f f f f f f f 2 2 2 f f f f f f f f 4 f f f 5 f f f f 2 2 2 f f f 2 2 f f f f f f f f f f f f f f f f f 4 4 f f f f f 5 f f f f f f f f f 2 2 2 f f f f f f f f f f f f f f 4 f f f f f f f f f f f f f f f f f f f 2 f f f f f f f f 5 f f f f f 2 f f f f f f f f f f f f f f f f 
+2 f f f f f f f 5 5 f f f f 2 f f f f f f f f f f f f 2 2 f f f f f f f f f f f f f f f f 5 f f f f f f 2 2 2 f f f f f f f f f f f f f f f f f f f f f f f f f f f 5 f f f f f f f f 2 f 2 2 f f f f f f f f f f f f f f f f f f f f f f f f f f f f f f f f 2 f f f f f f f f f f 5 f f f f f 2 f f f f f f f f f f f f f f f 
+f f f f f f f f f 5 f f f f f 2 2 f f f f f f 2 2 2 2 f f f f f f f f f f f f f f f f f f f 5 f f f f f f f 2 2 f f f f f f f f f f f f f f f f f f f f f f f f f f f 5 5 f f f f f f f f f f 2 2 2 f f f f f f f f f f f f f f f f f f f f f f f f f f f 2 2 f f f f f f f 4 f f f f 5 f f f f 2 f f f f f f f f f f f f f f f 
+f f f f f f f f f f f f f f f f f 2 2 f f 2 2 f f f f f f f f f f f f f f f f f f f f f f f f 5 f f f f f f f f 2 2 f f f f f f f f f f f f f f f f f f f f f f f f f f f 5 5 5 5 f f f f f f f f f 2 2 2 f f f f f f f f f f f f f f f f f f f f f f 2 2 f f f f f f f f f 4 f f f f 5 5 f f f f 2 f f f f f f f f f f f f f f 
+f f f f f f f f f f f f f f f f f 2 2 2 2 f f f f f f f f f f f f f f f f f f f f f f f f f f f 5 5 5 f f f f f f f 2 f f f f f f f f f f f f f f f f f f f f f f f f f f f f f f f f f f f f f f f f f f 2 2 2 2 f f f f f f f f f f f f f f f f 2 2 f f f f f f f f f f f f f f f f f f 5 f f f f 2 f f f f f f f f f f f f f 
+f f f f f f f f f f f f f f 2 2 2 f f f f f f f f f f f f f f f f f f f f f f f f f f f f f f f f f f f f f f f f f f f f f f f f f f f f f f f f f f f f f f f f f f f f f f f f f f f f f f f f f f f f f f f f 2 2 2 2 f f f f f f f f f f 2 2 f f f f f f f f f f f f f f f f f f f f f 5 f f f f 2 2 f f f f f f f f f f f 
+f f f f f f 2 2 f 2 2 2 2 2 f f f f f f f f f f f f f f f f f f f f f f f f f f f f f f f f f f f f f f f f f f f f f f f f f f f f f f f f f f f f f f f f f f f f f f f f f f f f f f f f f f f f f f f f f f f f f f f f f f f f f f f f f f f f f f f f f f f f f f f f f f f f f f f f 5 f f f f f f 2 f f f f f f f f f f 
+f f f f f f f f 2 f f f f f f f f f f f f f f f f f f f f f f f f f f f f f f f f f f f f f f f f f f f f f f f f f f f f f f f f f f f f f f f f f f f f f f f f f f f f f f f f f f f f f f f f f f f f f f f f f f f f f f f f f f f f f f f f f f f f f f f f f f f f f f f f f f f f f f f f f f f f f 2 f f f f f f f f f 
+f f f f f f f f f f f f f f f f f f f f f f f f f f f f f f f f f f f f f f f f f f f f f f f f f f f f f f f f f f f f f f f f f f f f f f f f f f f f f f f f f f f f f f f f f f f f f f f f f f f f f f f f f f f f f f f f f f f f f f f f f f f f f f f f f f f f f f f f f f f f f f f f f f f f f f f 2 f f f f f f f f 
+f f f f f f f f f f f f f f f f f f f f f f f f f f f f f f f f f f f f f f f f f f f f f f f f f f f f f f f f f f f f f f f f f f f f f f f f f f f f f f f f f f f f f f f f f f f f f f f f f f f f f f f f f f f f f f f f f f f f f f f f f f f f f f f f f f f f f f f f f f f f f f f f f f f f f f f f f f f f f f f f 
+f f f f f f f f f f f f f f f f f f f f f f f f f f f f f f f f f f f f f f f f f f f f f f f f f f f f f f f f f f f f f f f f f f f f f f f f f f f f f f f f f f f f f f f f f f f f f f f f f f f f f f f f f f f f f f f f f f f f f f f f f f f f f f f f f f f f f f f f f f f f f f f f f f f f f f f f f f f f f f f f 
+f f f f f f f f f f f f f f f f f f f f f f f f f f f f f f f f f f f f f f f f f f f f f f f f f f f f f f f f f f f f f f f f f f f f f f f f f f f f f f f f f f f f f f f f f f f f f f f f f f f f f f f f f f f f f f f f f f f f f f f f f f f f f f f f f f f f f f f f f f f f f f f f f f f f f f f f f f f f f f f f 
+f f f f f f f f f f f f f f f f f f f f f f f f f f f f f f f f f f f f f f f f f f f f f f f f f f f f f f f f f f f f f f f f f f f f f f f f f f f f f f f f f f f f f f f f f f f f f f f f f f f f f f f f f f f f f f f f f f f f f f f f f f f f f f f f f f f f f f f f f f f f f f f f f f f f f f f f f f f f f f f f 
+`)
+    game.splash("I am He who lives, and was dead, and behold, I am alive forevermore. Amen. And I have the keys of Hades and of Death.", "Rev 1:18")
     hasDemon = 0
     firing = 0
     info.setScore(0)
+    makeKey()
+    hasSnake = 0
     scene.setBackgroundColor(15)
     tiles.setTilemap(tiles.createTilemap(
[2 lines of base64/hex data omitted]
             img`
 . . . . . . . . . . . . . . . . . . . . 2 . . . . . . 2 . . . . 
 . . . . . . . . . . . . . . . . . . . . 2 . . . . . . 2 . . . . 
@@ -348,7 +486,7 @@ function setupGame () {
 . . . . . . . . . . . . . . . . . . . . . . . . . . . . . . . . 
 . . . . . . . . . . . . . . . . . . . . . . . . . . . . . . . . 
 `,
-            [myTiles.tile0,sprites.builtin.forestTiles5,sprites.builtin.forestTiles9,sprites.builtin.forestTiles13,sprites.builtin.forestTiles1,sprites.builtin.forestTiles10,sprites.builtin.forestTiles6,sprites.builtin.forestTiles7,sprites.builtin.forestTiles11,sprites.builtin.forestTiles15,sprites.builtin.forestTiles16,sprites.builtin.forestTiles4,sprites.dungeon.hazardWater,sprites.dungeon.hazardLava0,sprites.dungeon.hazardLava1,sprites.dungeon.chestClosed,sprites.dungeon.collectibleBlueCrystal,sprites.builtin.oceanSand11,sprites.dungeon.collectibleInsignia,sprites.dungeon.floorDark0],
+            [myTiles.tile0,sprites.builtin.forestTiles5,sprites.builtin.forestTiles9,sprites.builtin.forestTiles13,sprites.builtin.forestTiles1,sprites.builtin.forestTiles10,sprites.builtin.forestTiles6,sprites.builtin.forestTiles7,sprites.builtin.forestTiles11,sprites.builtin.forestTiles15,sprites.builtin.forestTiles16,sprites.builtin.forestTiles4,sprites.dungeon.hazardWater,sprites.dungeon.hazardLava0,sprites.dungeon.hazardLava1,sprites.dungeon.chestClosed,sprites.dungeon.collectibleBlueCrystal,sprites.builtin.oceanSand11,sprites.dungeon.collectibleInsignia,sprites.dungeon.floorDark0,sprites.builtin.forestTiles24],
             TileScale.Sixteen
         ))
     jesus = codeplant.jesus.create(SpriteKind.Player)
@@ -357,6 +495,26 @@ function setupGame () {
     scene.cameraFollowSprite(jesus.sprite)
     bossMade = 0
 }
+sprites.onOverlap(SpriteKind.Player, SpriteKind.Food, function (sprite, otherSprite) {
+    if (hasDemon == 0) {
+        info.changeScoreBy(1)
+        otherSprite.destroy(effects.fire, 500)
+        pause(1000)
+        makeKey()
+    }
+    if (info.score() >= 4) {
+        makeBossDemon()
+    }
+})
+sprites.onOverlap(SpriteKind.snake, SpriteKind.Projectile, function (sprite, otherSprite) {
+    if (hasSnake == 0) {
+        sprite.setVelocity(0, 0)
+        effects.playSmallHealingAnimation(sprite)
+        pause(1000)
+        sprite.destroy()
+        hasDemon = 0
+    }
+})
 sprites.onOverlap(SpriteKind.Enemy, SpriteKind.Projectile, function (sprite, otherSprite) {
     sprite.setVelocity(0, 0)
     effects.playSmallHealingAnimation(sprite)
@@ -384,26 +542,24 @@ controller.right.onEvent(ControllerButtonEvent.Pressed, function () {
 controller.right.onEvent(ControllerButtonEvent.Released, function () {
     codeplant.jesus.playAnimation(codeplant.jesus.AnimationTypes.IdleRight)
 })
-scene.onOverlapTile(SpriteKind.Player, sprites.dungeon.collectibleBlueCrystal, function (sprite, location) {
-    if (hasDemon == 0) {
-        tiles.setTileAt(location, sprites.builtin.forestTiles10)
-        info.changeScoreBy(1)
-    }
-    if (info.score() == 4) {
-        makeBossDemon()
-    }
+sprites.onOverlap(SpriteKind.Player, SpriteKind.snake, function (sprite, otherSprite) {
+    hasSnake = 1
+    info.setScore(0)
 })
-scene.onOverlapTile(SpriteKind.Enemy, sprites.dungeon.hazardLava0, function (sprite, location) {
+scene.onOverlapTile(SpriteKind.snake, sprites.dungeon.hazardLava0, function (sprite, location) {
     sprite.destroy(effects.spray, 500)
     hasDemon = 0
-    jesus.sprite.say("")
+    hasSnake = 0
+    jesus.sprite.say("Be Gone!")
 })
+let hasSnake = 0
 let hasDemon = 0
 let bossDemon: Sprite = null
 let firing = 0
 let jesus: Jesus = null
 let mySprite: Sprite = null
 let bossMade = 0
+let keys: Sprite = null
 setupGame()
 game.onUpdate(function () {
     if (hasDemon == 0) {
